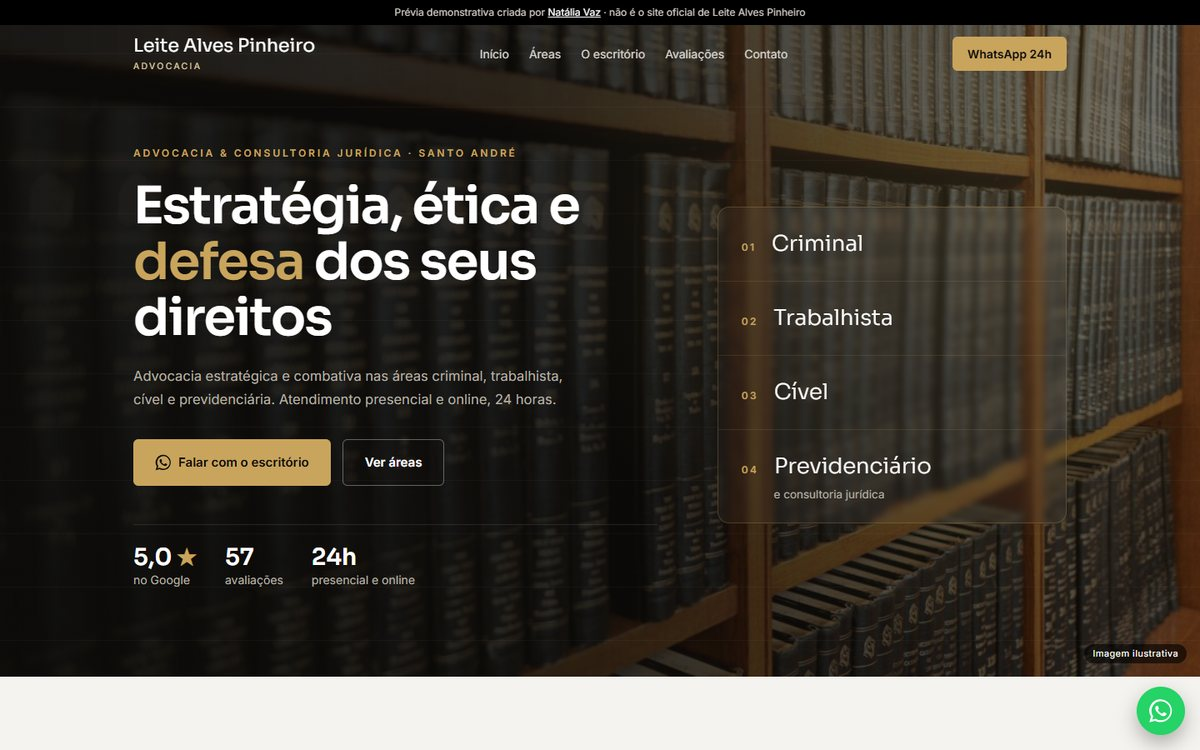
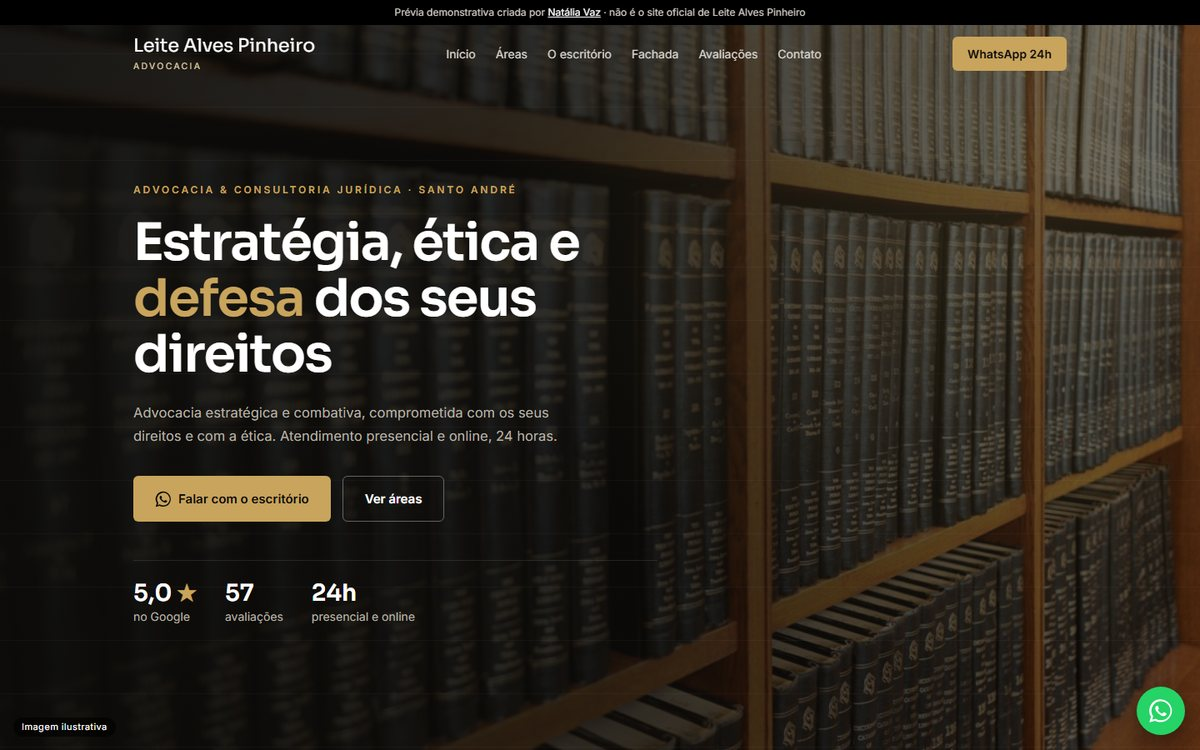
Prévias leads A: hero sem lista de áreas, menu sem quebra de linha, prints novos

diff --git a/leite-alves-pinheiro/index.html b/leite-alves-pinheiro/index.html
@@ -69,13 +69,14 @@ a{color:inherit}
 .nav{position:fixed;inset:0 0 auto;z-index:50;transition:background .3s;border-bottom:1px solid transparent}
 .nav.solid,.nav.open{background:var(--dark);border-color:rgba(255,255,255,.06)}
 .nav .wrap{display:flex;align-items:center;justify-content:space-between;height:70px;gap:16px}
-.brand{text-decoration:none;color:#fff;line-height:1.15}
+.brand{text-decoration:none;color:#fff;line-height:1.15;white-space:nowrap;flex-shrink:0}
 .brand b{font-family:var(--serif);font-weight:400;font-size:22px;display:block}
 .brand small{font-size:10.5px;letter-spacing:.22em;text-transform:uppercase;color:var(--accent-soft)}
 .nav ul{display:flex;gap:24px;list-style:none;font-size:14px}
 .nav ul a{text-decoration:none;color:#d9d6d0}
 .nav ul a:hover{color:var(--accent-soft)}
-.nav-right{display:flex;align-items:center;gap:14px}
+.nav-right{display:flex;align-items:center;gap:14px;flex-shrink:0}
+.nav .btn{white-space:nowrap}
 .burger{display:none;width:42px;height:42px;border:1px solid rgba(255,255,255,.25);border-radius:6px;background:transparent;cursor:pointer;place-items:center}
 .burger span,.burger span::before,.burger span::after{display:block;width:18px;height:1.5px;background:#fff;position:relative;transition:transform .25s,background .25s}
 .burger span::before,.burger span::after{content:"";position:absolute;left:0}
@@ -91,9 +92,9 @@ a{color:inherit}
 }
 @media (max-width:420px){.nav-right .btn.sm{display:none}}
 
-/* hero (TYPOGRAPHIC assimétrico: texto + painel numerado das áreas) */
-.hero{position:relative;background:linear-gradient(90deg,rgba(12,11,9,.95) 0%,rgba(12,11,9,.86) 50%,rgba(12,11,9,.6) 100%),url(assets/hero.jpg) center/cover var(--dark);color:#e6e1d8;overflow:hidden;padding:168px 0 104px}
-.hero>.ilustr{left:auto;right:16px;bottom:16px}
+/* hero (TYPOGRAPHIC: texto à esquerda sobre foto de escritório escurecida) */
+.hero{position:relative;background:linear-gradient(90deg,rgba(12,11,9,.95) 0%,rgba(12,11,9,.86) 50%,rgba(12,11,9,.6) 100%),url(assets/hero.jpg) center/cover var(--dark);color:#e6e1d8;overflow:hidden;padding:168px 0 104px;min-height:100vh;display:flex;align-items:center}
+.hero>.ilustr{left:16px;bottom:16px}
 .hero::before{content:"";position:absolute;inset:0;background:radial-gradient(circle at 85% 20%,rgba(201,164,92,.16),transparent 45%),linear-gradient(rgba(255,255,255,.03) 1px,transparent 1px) 0 0/100% 64px;pointer-events:none}
 .hero .wrap{position:relative;z-index:1;display:grid;grid-template-columns:1.2fr .8fr;gap:72px;align-items:center}
 .hero h1{font-family:var(--serif);font-weight:600;color:#fff;font-size:clamp(38px,5vw,62px);line-height:1.08;margin:18px 0 22px;letter-spacing:-.025em}
@@ -319,7 +320,7 @@ a{color:inherit}
     <div class="hero-text reveal">
       <span class="kicker">Advocacia &amp; consultoria jurídica · Santo André</span>
       <h1>Estratégia, ética e <i>defesa</i> dos seus direitos</h1>
-      <p>Advocacia estratégica e combativa nas áreas criminal, trabalhista, cível e previdenciária. Atendimento presencial e online, 24 horas.</p>
+      <p>Advocacia estratégica e combativa, comprometida com os seus direitos e com a ética. Atendimento presencial e online, 24 horas.</p>
       <div class="ctas">
         <a class="btn" href="https://wa.me/5511987317562?text=Ol%C3%A1%21%20Vi%20o%20site%20da%20Leite%20Alves%20Pinheiro%20Advocacia%20e%20gostaria%20de%20uma%20orienta%C3%A7%C3%A3o." target="_blank" rel="noopener"><svg class="ic" aria-hidden="true"><use href="#i-whatsapp"/></svg>Falar com o escritório</a>
         <a class="btn ghost" href="#servicos">Ver áreas</a>
@@ -330,12 +331,6 @@ a{color:inherit}
         <div><b>24h</b>presencial e online</div>
       </div>
     </div>
-    <ul class="areas reveal" aria-label="Áreas de atuação">
-      <li><span>01</span>Criminal</li>
-      <li><span>02</span>Trabalhista</li>
-      <li><span>03</span>Cível</li>
-      <li><span>04</span><div>Previdenciário<small class="foot-note">e consultoria jurídica</small></div></li>
-    </ul>
   </div>
   <span class="ilustr">Imagem ilustrativa</span>
 </header>

diff --git a/lednik-advogados/index.html b/lednik-advogados/index.html
@@ -69,13 +69,14 @@ a{color:inherit}
 .nav{position:fixed;inset:0 0 auto;z-index:50;transition:background .3s;border-bottom:1px solid transparent}
 .nav.solid,.nav.open{background:var(--dark);border-color:rgba(255,255,255,.06)}
 .nav .wrap{display:flex;align-items:center;justify-content:space-between;height:70px;gap:16px}
-.brand{text-decoration:none;color:#fff;line-height:1.15}
+.brand{text-decoration:none;color:#fff;line-height:1.15;white-space:nowrap;flex-shrink:0}
 .brand b{font-family:var(--serif);font-weight:400;font-size:22px;display:block}
 .brand small{font-size:10.5px;letter-spacing:.22em;text-transform:uppercase;color:var(--accent-soft)}
 .nav ul{display:flex;gap:24px;list-style:none;font-size:14px}
 .nav ul a{text-decoration:none;color:#d9d6d0}
 .nav ul a:hover{color:var(--accent-soft)}
-.nav-right{display:flex;align-items:center;gap:14px}
+.nav-right{display:flex;align-items:center;gap:14px;flex-shrink:0}
+.nav .btn{white-space:nowrap}
 .burger{display:none;width:42px;height:42px;border:1px solid rgba(255,255,255,.25);border-radius:6px;background:transparent;cursor:pointer;place-items:center}
 .burger span,.burger span::before,.burger span::after{display:block;width:18px;height:1.5px;background:#fff;position:relative;transition:transform .25s,background .25s}
 .burger span::before,.burger span::after{content:"";position:absolute;left:0}
@@ -316,8 +317,7 @@ a{color:inherit}
     <div class="hero-text reveal">
       <span class="kicker">Advocacia imobiliária e contratual · Santo André</span>
       <h1>Contratos claros, <i>negócios seguros</i></h1>
-      <p>Compra e venda de imóveis, locação, regularização, distratos e contratos empresariais. Análise cuidadosa antes de você assinar, para transformar desafios em soluções.</p>
-      <ul class="tags"><li>Imobiliário</li><li>Contratual</li><li>Empresarial</li></ul>
+      <p>Análise cuidadosa antes de você assinar, para transformar desafios em soluções, de preferência sem precisar de um processo judicial.</p>
       <div class="ctas">
         <a class="btn" href="https://wa.me/5511964734692?text=Ol%C3%A1%21%20Vi%20o%20site%20do%20Lednik%20Advogados%20e%20gostaria%20de%20uma%20orienta%C3%A7%C3%A3o." target="_blank" rel="noopener"><svg class="ic" aria-hidden="true"><use href="#i-whatsapp"/></svg>Falar com o escritório</a>
         <a class="btn ghost" href="#servicos">Ver atuação</a>

diff --git a/mario-serra/index.html b/mario-serra/index.html
@@ -69,13 +69,14 @@ a{color:inherit}
 .nav{position:fixed;inset:0 0 auto;z-index:50;transition:background .3s;border-bottom:1px solid transparent}
 .nav.solid,.nav.open{background:var(--dark);border-color:rgba(255,255,255,.06)}
 .nav .wrap{display:flex;align-items:center;justify-content:space-between;height:70px;gap:16px}
-.brand{text-decoration:none;color:#fff;line-height:1.15}
+.brand{text-decoration:none;color:#fff;line-height:1.15;white-space:nowrap;flex-shrink:0}
 .brand b{font-family:var(--serif);font-weight:400;font-size:22px;display:block}
 .brand small{font-size:10.5px;letter-spacing:.22em;text-transform:uppercase;color:var(--accent-soft)}
 .nav ul{display:flex;gap:24px;list-style:none;font-size:14px}
 .nav ul a{text-decoration:none;color:#d9d6d0}
 .nav ul a:hover{color:var(--accent-soft)}
-.nav-right{display:flex;align-items:center;gap:14px}
+.nav-right{display:flex;align-items:center;gap:14px;flex-shrink:0}
+.nav .btn{white-space:nowrap}
 .burger{display:none;width:42px;height:42px;border:1px solid rgba(255,255,255,.25);border-radius:6px;background:transparent;cursor:pointer;place-items:center}
 .burger span,.burger span::before,.burger span::after{display:block;width:18px;height:1.5px;background:#fff;position:relative;transition:transform .25s,background .25s}
 .burger span::before,.burger span::after{content:"";position:absolute;left:0}
@@ -312,7 +313,7 @@ a{color:inherit}
     <div class="hero-text reveal">
       <span class="kicker">Advocacia imobiliária · Santo André</span>
       <h1>Segurança jurídica para o seu <i>imóvel</i> e a sua família</h1>
-      <p>Compra e venda, escrituras, regularização, locação, inventário e família. Orientação clara e próxima, no escritório, por WhatsApp ou videochamada.</p>
+      <p>Orientação clara e próxima em cada etapa, para você decidir com segurança. Atendimento no escritório, por WhatsApp ou videochamada.</p>
       <div class="ctas">
         <a class="btn" href="https://wa.me/5511947516562?text=Ol%C3%A1%2C%20Dr.%20Mario%21%20Vi%20o%20seu%20site%20e%20gostaria%20de%20uma%20orienta%C3%A7%C3%A3o%20sobre%20uma%20quest%C3%A3o%20imobili%C3%A1ria." target="_blank" rel="noopener"><svg class="ic" aria-hidden="true"><use href="#i-whatsapp"/></svg>Falar com o Dr. Mario</a>
         <a class="btn ghost" href="#servicos">Áreas de atuação</a>

diff --git a/alisson-oliveira/index.html b/alisson-oliveira/index.html
@@ -69,13 +69,14 @@ a{color:inherit}
 .nav{position:fixed;inset:0 0 auto;z-index:50;transition:background .3s;border-bottom:1px solid transparent}
 .nav.solid,.nav.open{background:var(--dark);border-color:rgba(255,255,255,.06)}
 .nav .wrap{display:flex;align-items:center;justify-content:space-between;height:70px;gap:16px}
-.brand{text-decoration:none;color:#fff;line-height:1.15}
+.brand{text-decoration:none;color:#fff;line-height:1.15;white-space:nowrap;flex-shrink:0}
 .brand b{font-family:var(--serif);font-weight:400;font-size:22px;display:block}
 .brand small{font-size:10.5px;letter-spacing:.22em;text-transform:uppercase;color:var(--accent-soft)}
 .nav ul{display:flex;gap:24px;list-style:none;font-size:14px}
 .nav ul a{text-decoration:none;color:#d9d6d0}
 .nav ul a:hover{color:var(--accent-soft)}
-.nav-right{display:flex;align-items:center;gap:14px}
+.nav-right{display:flex;align-items:center;gap:14px;flex-shrink:0}
+.nav .btn{white-space:nowrap}
 .burger{display:none;width:42px;height:42px;border:1px solid rgba(255,255,255,.25);border-radius:6px;background:transparent;cursor:pointer;place-items:center}
 .burger span,.burger span::before,.burger span::after{display:block;width:18px;height:1.5px;background:#fff;position:relative;transition:transform .25s,background .25s}
 .burger span::before,.burger span::after{content:"";position:absolute;left:0}
@@ -315,7 +316,7 @@ a{color:inherit}
     <div class="hero-text reveal">
       <span class="kicker">Advocacia previdenciária · Santo André</span>
       <h1>Seus direitos no <i>INSS</i>, explicados com clareza</h1>
-      <p>Aposentadoria, benefícios por incapacidade, salário-maternidade e revisão de descontos. Cada histórico é único, por isso cada caso é analisado com atenção.</p>
+      <p>Cada histórico de contribuição é único, por isso cada caso é analisado com atenção, do primeiro contato até a resposta do INSS.</p>
       <div class="ctas">
         <a class="btn" href="https://wa.me/5511972237271?text=Ol%C3%A1%2C%20Dr.%20Alisson%21%20Vi%20o%20seu%20site%20e%20gostaria%20de%20uma%20orienta%C3%A7%C3%A3o%20sobre%20aposentadoria/INSS." target="_blank" rel="noopener"><svg class="ic" aria-hidden="true"><use href="#i-whatsapp"/></svg>Falar com o Dr. Alisson</a>
         <a class="btn ghost" href="#servicos">Ver atuação</a>

diff --git a/claudia-duraes/index.html b/claudia-duraes/index.html
@@ -69,13 +69,14 @@ a{color:inherit}
 .nav{position:fixed;inset:0 0 auto;z-index:50;transition:background .3s;border-bottom:1px solid transparent}
 .nav.solid,.nav.open{background:var(--dark);border-color:rgba(255,255,255,.06)}
 .nav .wrap{display:flex;align-items:center;justify-content:space-between;height:70px;gap:16px}
-.brand{text-decoration:none;color:#fff;line-height:1.15}
+.brand{text-decoration:none;color:#fff;line-height:1.15;white-space:nowrap;flex-shrink:0}
 .brand b{font-family:var(--serif);font-weight:400;font-size:22px;display:block}
 .brand small{font-size:10.5px;letter-spacing:.22em;text-transform:uppercase;color:var(--accent-soft)}
 .nav ul{display:flex;gap:24px;list-style:none;font-size:14px}
 .nav ul a{text-decoration:none;color:#d9d6d0}
 .nav ul a:hover{color:var(--accent-soft)}
-.nav-right{display:flex;align-items:center;gap:14px}
+.nav-right{display:flex;align-items:center;gap:14px;flex-shrink:0}
+.nav .btn{white-space:nowrap}
 .burger{display:none;width:42px;height:42px;border:1px solid rgba(255,255,255,.25);border-radius:6px;background:transparent;cursor:pointer;place-items:center}
 .burger span,.burger span::before,.burger span::after{display:block;width:18px;height:1.5px;background:#fff;position:relative;transition:transform .25s,background .25s}
 .burger span::before,.burger span::after{content:"";position:absolute;left:0}
@@ -314,7 +315,7 @@ a{color:inherit}
       <span class="h24"><i></i>Atendimento 24 horas</span><br>
       <span class="kicker">Advocacia criminal · Santo André</span>
       <h1>Defesa criminal com <i>presença</i> quando você mais precisa</h1>
-      <p>Atuação em Direito Criminal e de Família, com atendimento humano, explicações claras e acompanhamento em cada etapa, a qualquer hora.</p>
+      <p>Atendimento humano, explicações claras e acompanhamento em cada etapa, a qualquer hora.</p>
       <div class="ctas">
         <a class="btn" href="https://wa.me/5511946651736?text=Ol%C3%A1%2C%20Dra.%20Cl%C3%A1udia%21%20Vi%20o%20seu%20site%20e%20preciso%20de%20uma%20orienta%C3%A7%C3%A3o." target="_blank" rel="noopener"><svg class="ic" aria-hidden="true"><use href="#i-whatsapp"/></svg>Falar com a Dra. Cláudia</a>
         <a class="btn ghost" href="#servicos">Ver atuação</a>
